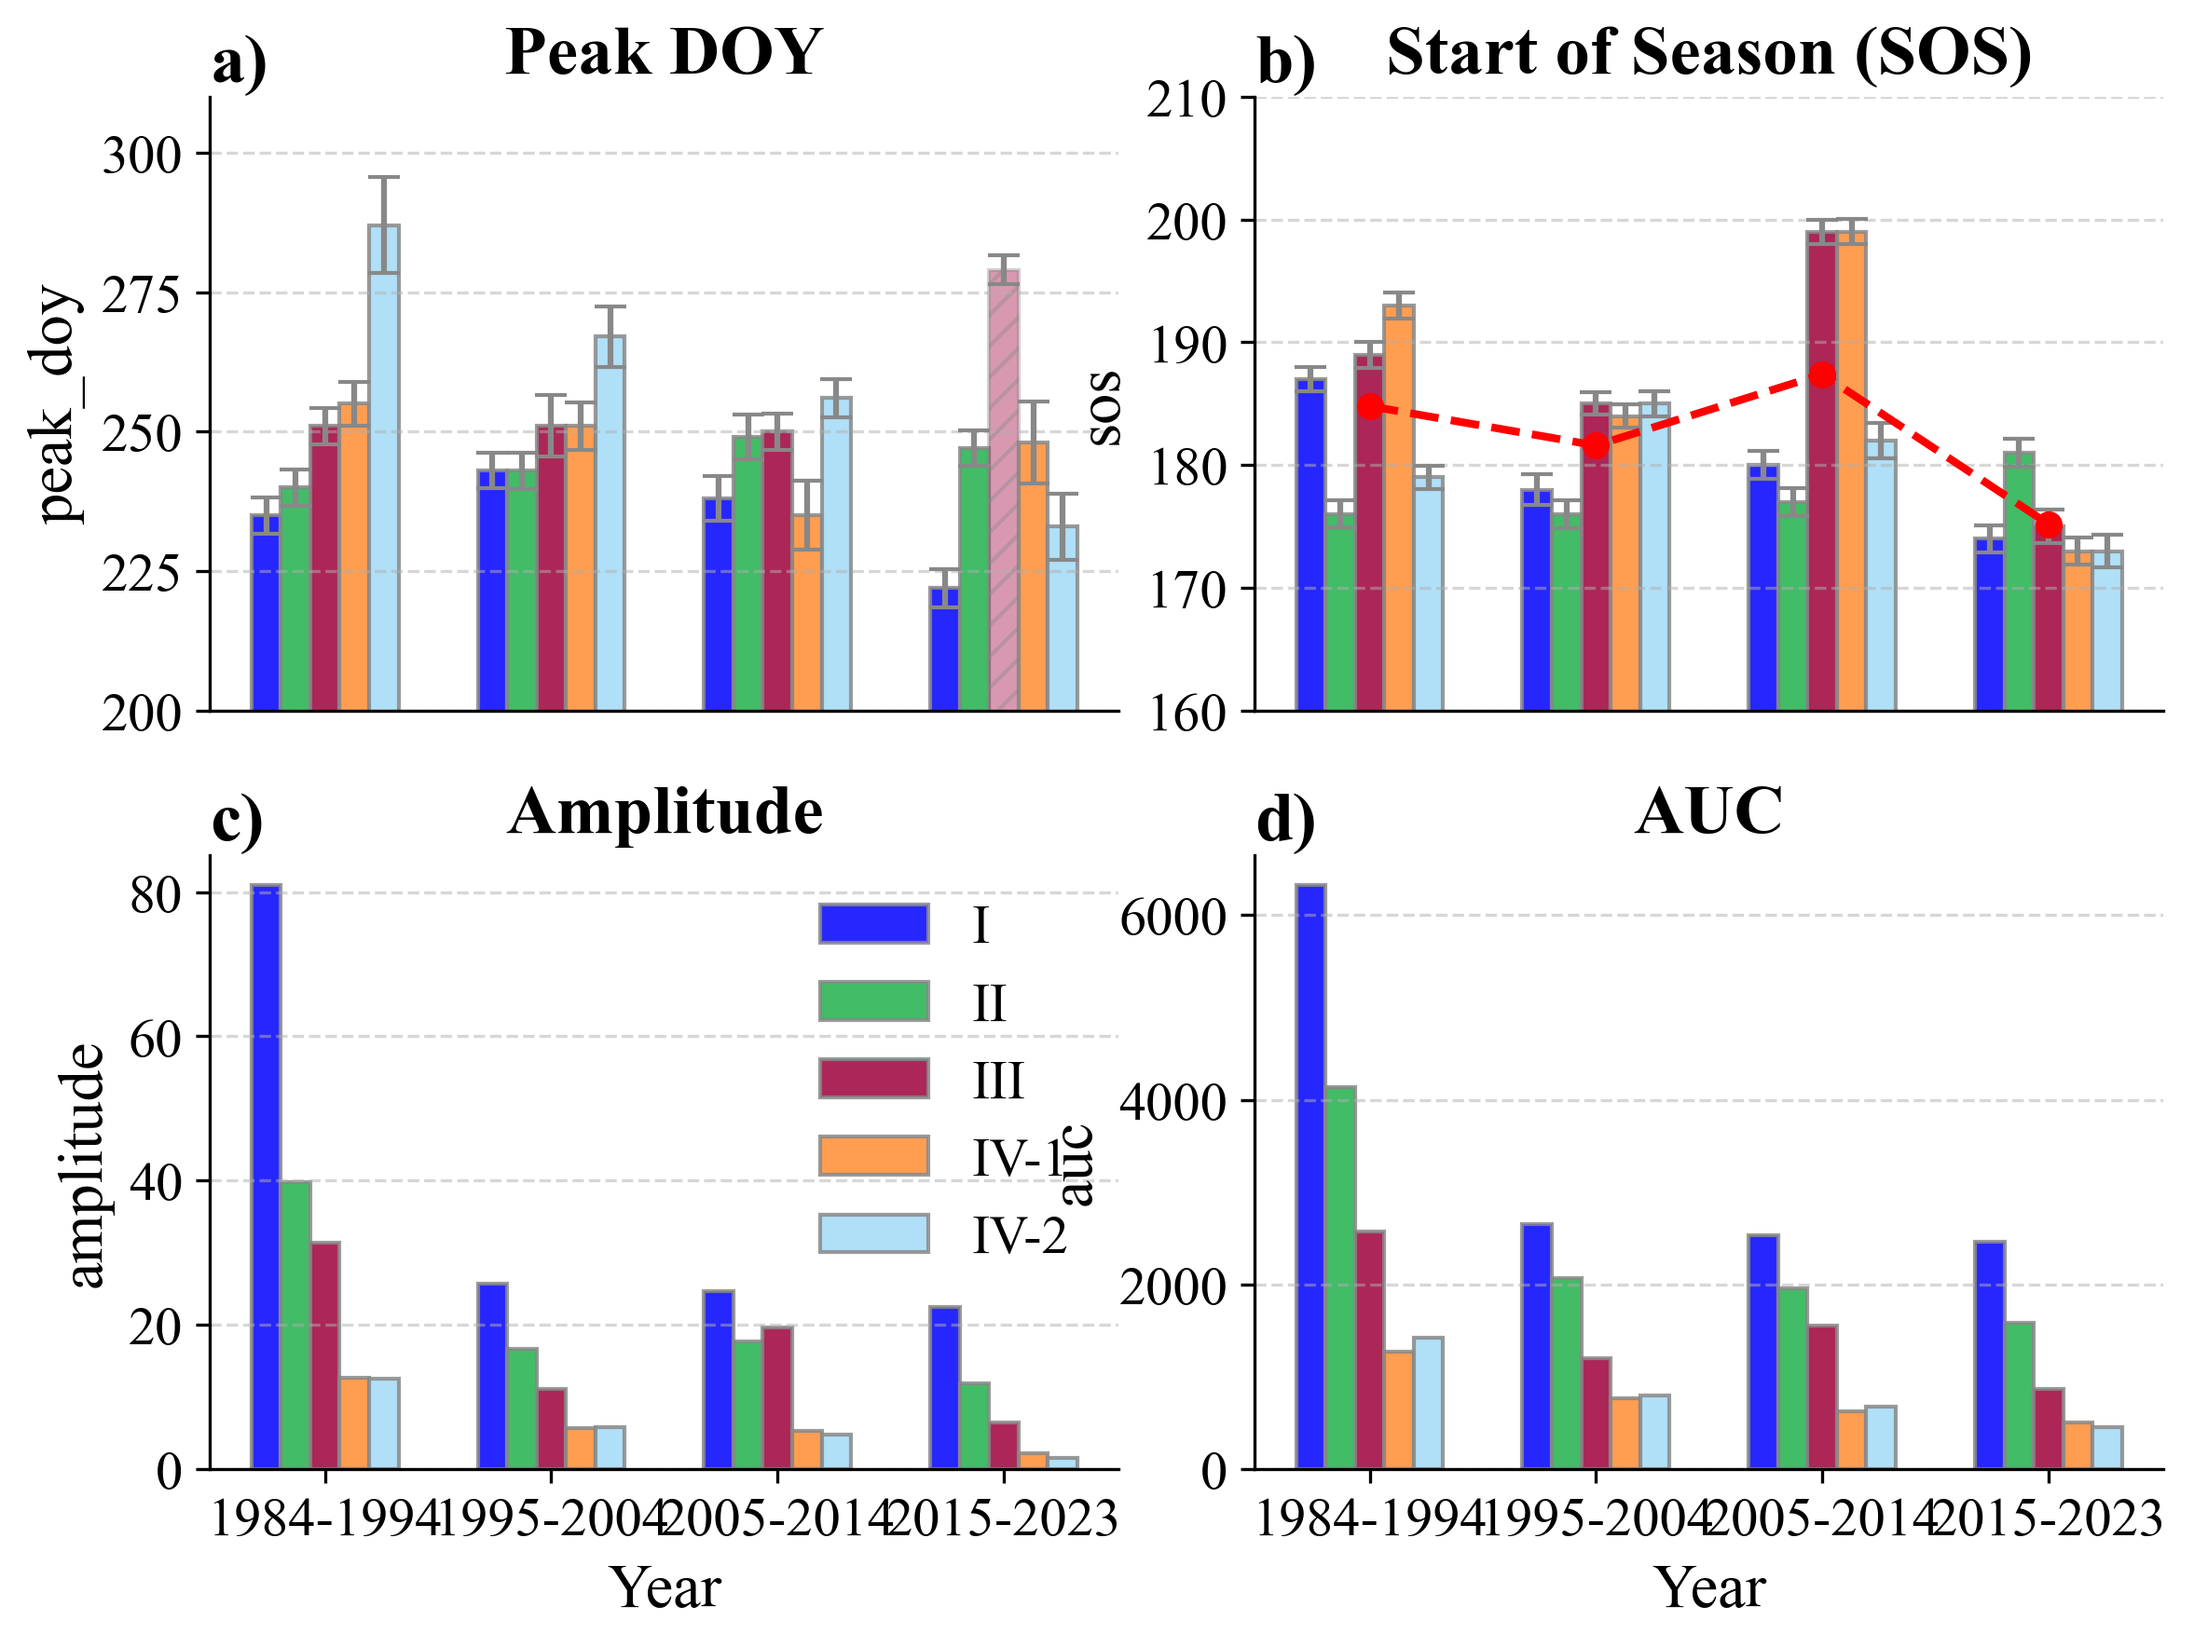
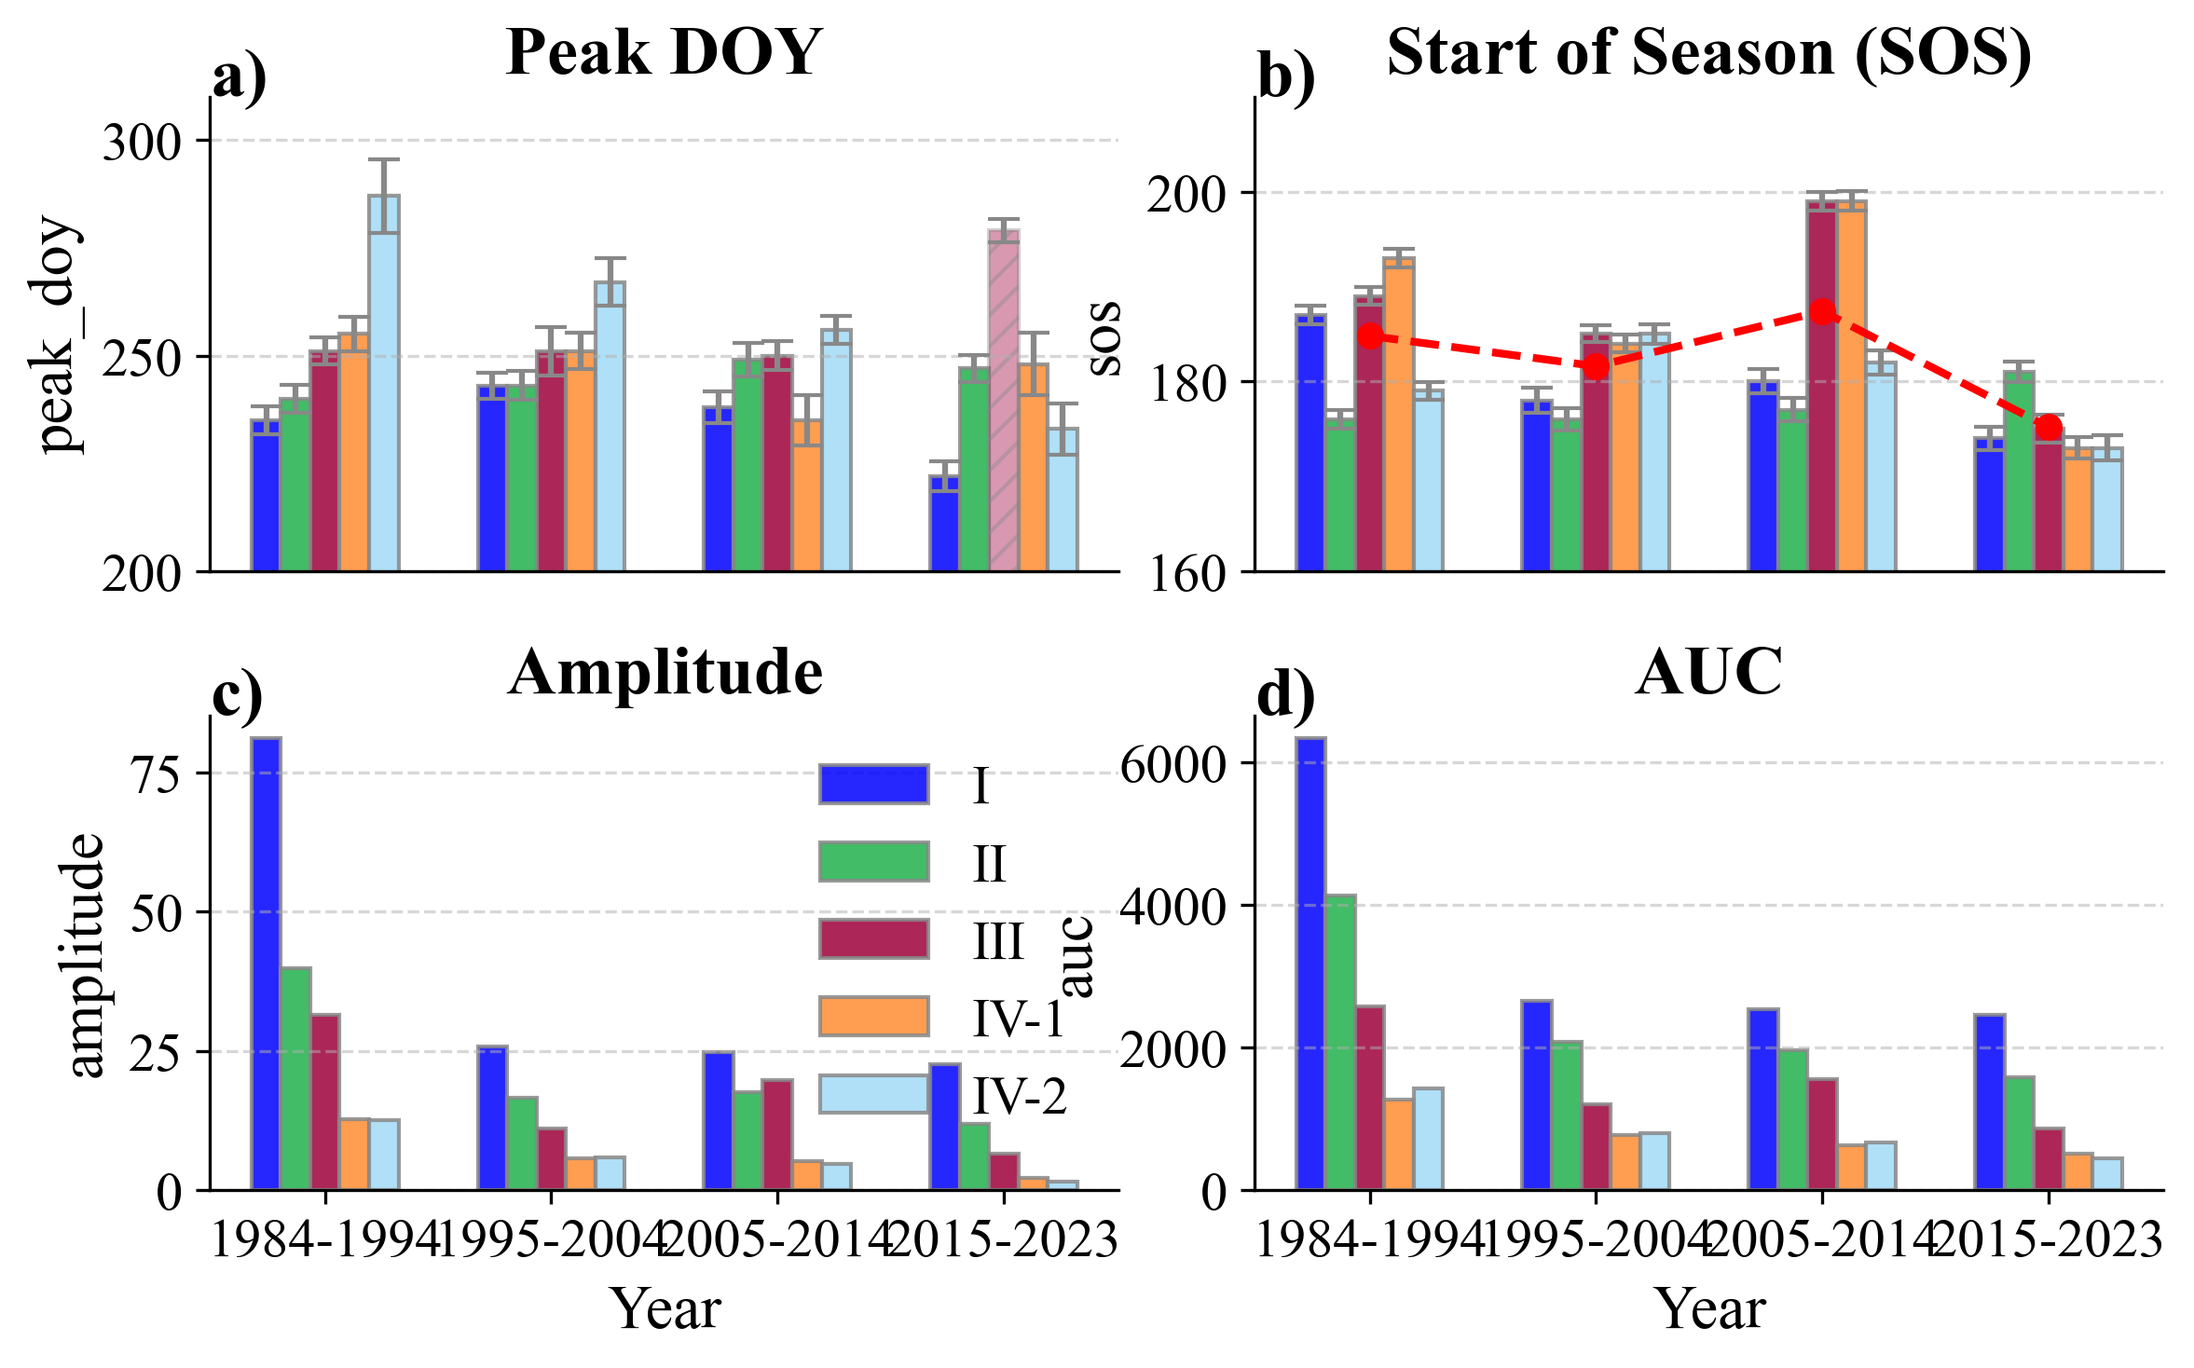
Update figures and enhance plotting aesthetics for improved clarity and resolution
- Replace existing figures with higher resolution versions for Phenology_Tab1_Fig9, SouthNorthPelagicComparison_Fig7, SouthNorthPelagicRatio_Fig6, and SpatioTemporalAsynchrony_Fig4.
- Adjust subplot sizes and DPI settings in scripts to enhance visual quality and presentation.
- Refine axis labels and titles for better readability in SouthNorthPelagicComparison_Fig7 and SpatioTemporalAsynchrony_Fig4.

diff --git a/src/SouthNorthPelagicRatio_Fig6.py b/src/SouthNorthPelagicRatio_Fig6.py
@@ -21,8 +21,8 @@ mpl.rcParams['legend.fontsize'] = 11
 mpl.rcParams['axes.linewidth'] = 1.2
 mpl.rcParams['xtick.direction'] = 'out'
 mpl.rcParams['ytick.direction'] = 'out'
-mpl.rcParams['savefig.dpi'] = 200
-mpl.rcParams['figure.dpi'] = 200
+mpl.rcParams['savefig.dpi'] = 300
+mpl.rcParams['figure.dpi'] = 300
 
 # Use relative path for data directory
 filePath = os.path.join(os.path.dirname(__file__), "..", "data")
@@ -58,7 +58,7 @@ for i, coast_region in enumerate(['north_coast_percentage', 'south_coast_percent
 sns.set(style="white", palette="colorblind")
 
 # Set up subplots
-fig, axes = plt.subplots(nrows=1, ncols=2, figsize=(10, 5), sharey=True)
+fig, axes = plt.subplots(nrows=1, ncols=2, figsize=(10, 4), sharey=True)
 
 flierprops = dict(markerfacecolor='gray', markeredgecolor='none', alpha=0.5, markersize=3)
 
@@ -90,7 +90,7 @@ for ax in axes:
     ax.spines['right'].set_visible(False)
     ax.spines['left'].set_linewidth(1.2)
     ax.spines['bottom'].set_linewidth(1.2)
-    ax.grid(False)
+    ax.grid(True, axis='y', color='gray', linestyle='-', alpha=0.3, linewidth=0.5)
     ax.set_facecolor('white')
     ax.tick_params(axis='both', which='both', length=5, width=1.2)
 

diff --git a/src/SouthNorthPelagicComparison_Fig7.py b/src/SouthNorthPelagicComparison_Fig7.py
@@ -29,7 +29,8 @@ plt.rcParams.update({
     'ytick.labelsize': 11,
     'legend.fontsize': 11,
     'font.family': 'sans-serif',
-    'font.sans-serif': ['Arial']
+    'font.sans-serif': ['Arial'],
+    'savefig.dpi': 300
 })
 
 basin_lines = [-5, 7, 21, 53]
@@ -40,7 +41,7 @@ series_names = ['north coast', 'south coast', 'pelagic']
 series_colors = ['#0072B2', '#D55E00', '#009E73']  # blue, orange, green (colorblind-friendly)
 line_styles = ['-', '-', '-']
 
-fig, axes = plt.subplots(2, 2, figsize=(12, 8), sharex=True, sharey=False, dpi=200)
+fig, axes = plt.subplots(2, 2, figsize=(12, 6), sharex=True, sharey=False, dpi=200)
 axes = axes.flatten()
 
 for i, (year, ax) in enumerate(zip(years, axes)):
@@ -61,7 +62,7 @@ for i, (year, ax) in enumerate(zip(years, axes)):
         ax.set_xlabel('Distance (km)')
         ax.set_ylim(2, 45)
     if i % 2 == 0:
-        ax.set_ylabel('Chl-a (μg/L)')
+        ax.set_ylabel('Chl-a (μg/L)', style='italic')
     ax.set_xlim(-5, 80)
     ax.tick_params(axis='both', which='major', length=5, width=1)
     ax.spines['top'].set_visible(False)

diff --git a/src/SpatioTemporalAsynchrony_Fig4.py b/src/SpatioTemporalAsynchrony_Fig4.py
@@ -72,7 +72,7 @@ ax.set_ylabel('Month', fontsize=16, fontweight='bold')
 ax.set_xlabel('Distance (km)', fontsize=16, fontweight='bold')
 ax.set_yticks([7, 8, 9])
 ax.set_yticklabels(['Jul', 'Aug', 'Sep'])
-ax.set_title('Chl-a Asynchrony (μg/L)', fontsize=18, fontweight='bold', pad=12)
+ax.set_title('$\mathit{Chl{-}a}$ Asynchrony (μg/L)', fontsize=18, fontweight='bold', pad=12)
 
 # Remove top and right spines
 ax.spines['top'].set_visible(False)
@@ -82,7 +82,7 @@ ax.spines['right'].set_visible(False)
 diff = pivot[9] - pivot[8]  # September minus August
 ax2 = ax.twinx()
 ax2.plot(pivot.index, diff, marker='o', color='black', linewidth=2, label='Sep - Aug')
-ax2.set_ylabel('Chl-a (Sep - Aug)', fontsize=16, fontweight='bold', color='black', 
+ax2.set_ylabel('$\mathit{Chl{-}a}$ (Sep - Aug)', fontsize=16, fontweight='bold', color='black', 
                rotation=-90, labelpad=11)
 ax2.tick_params(axis='y', labelcolor='black', labelsize=14)
 ax2.spines['top'].set_visible(False)

diff --git a/src/Phenology_Tab1_Fig9.py b/src/Phenology_Tab1_Fig9.py
@@ -41,6 +41,8 @@ poly_order = 3
 uncert_window = 20
 num_bootstrap_samples = 1000
 
+plt.rcParams['savefig.dpi'] = 300
+
 # ============================================== DATA LOADING ==============================================
 def load_data():
     """Load and preprocess the Landsat data."""
@@ -327,7 +329,7 @@ def create_summary_plot(results_df):
     
     basin_colors = ['#0000FF', '#22B14C', '#9E003A', '#FF8C32', '#A2DBF6']
     
-    fig, axs = plt.subplots(2, 2, figsize=(8, 6))
+    fig, axs = plt.subplots(2, 2, figsize=(8, 5))
     param_names = ['peak_doy', 'sos', 'amplitude', 'auc']
     titles = ['Peak DOY', 'Start of Season (SOS)', 'Amplitude', 'AUC']
     subplot_labels = ['a)', 'b)', 'c)', 'd)']
